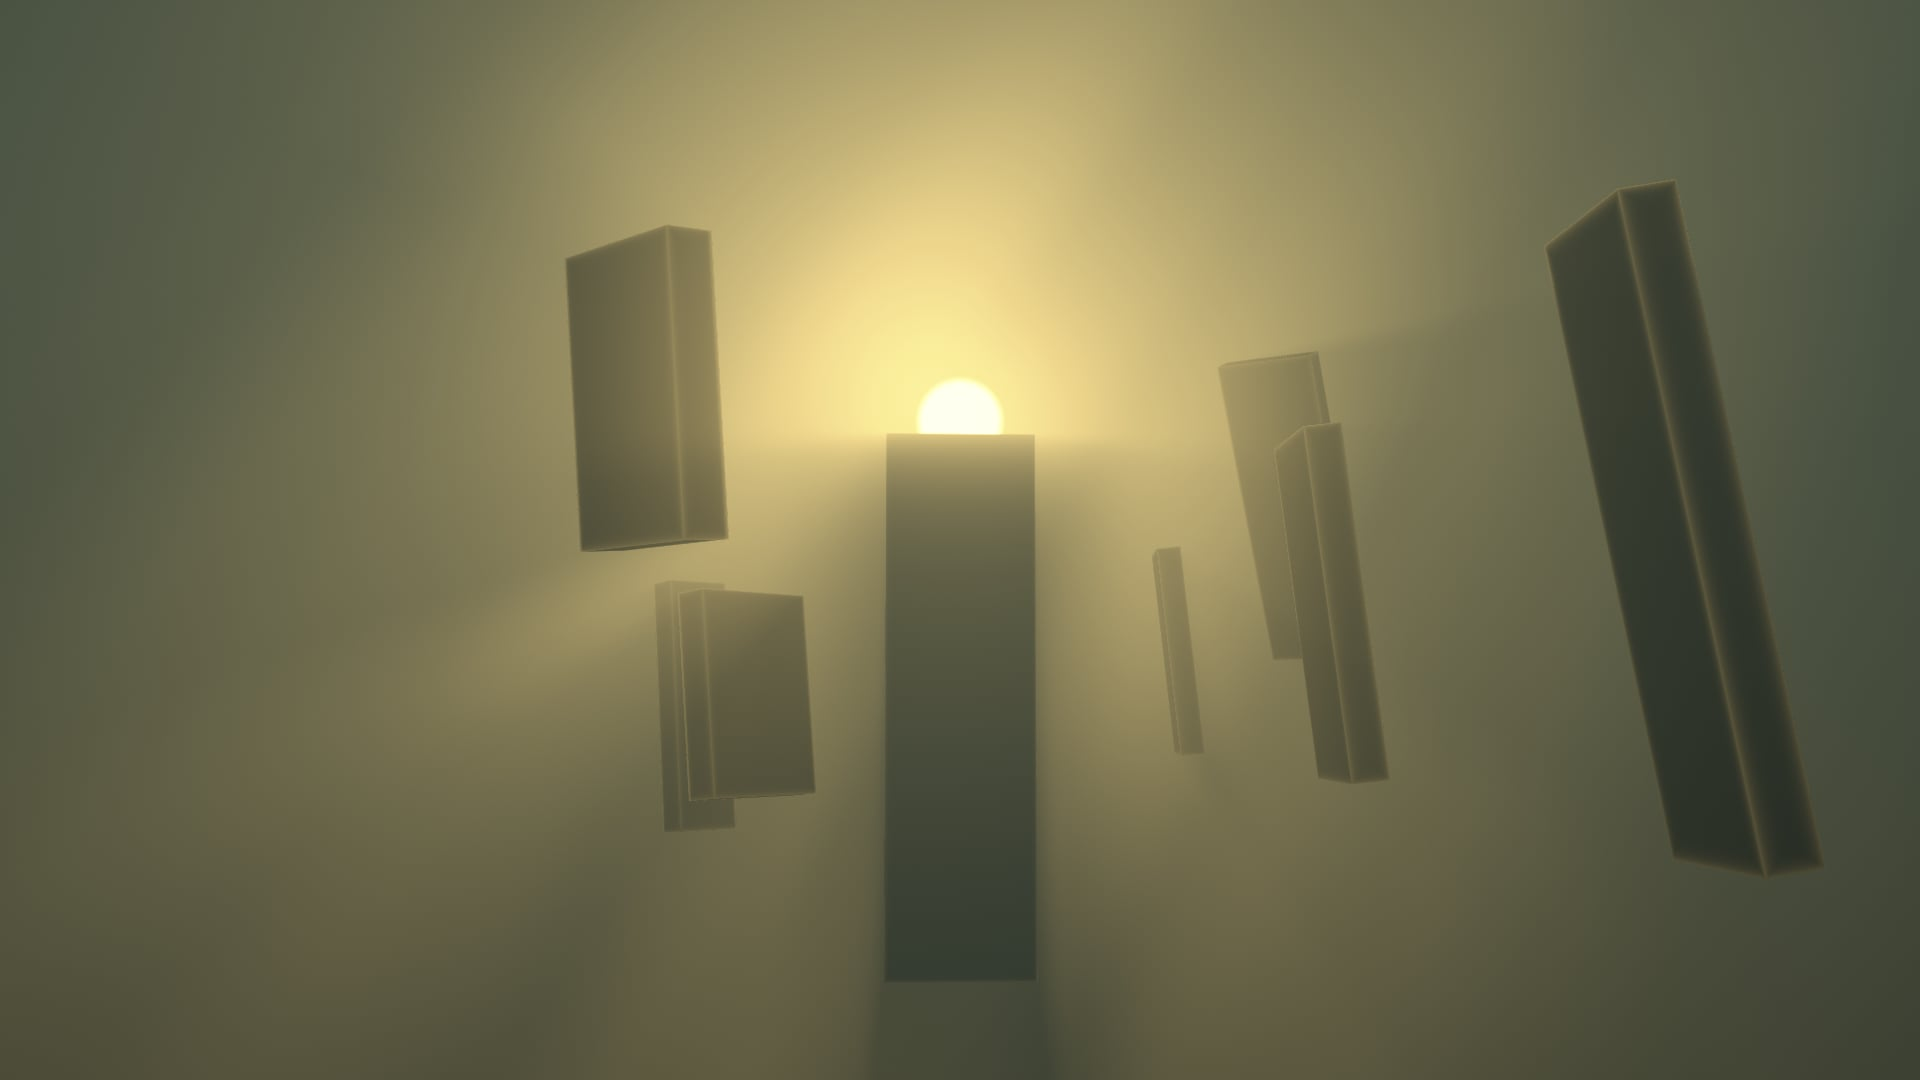
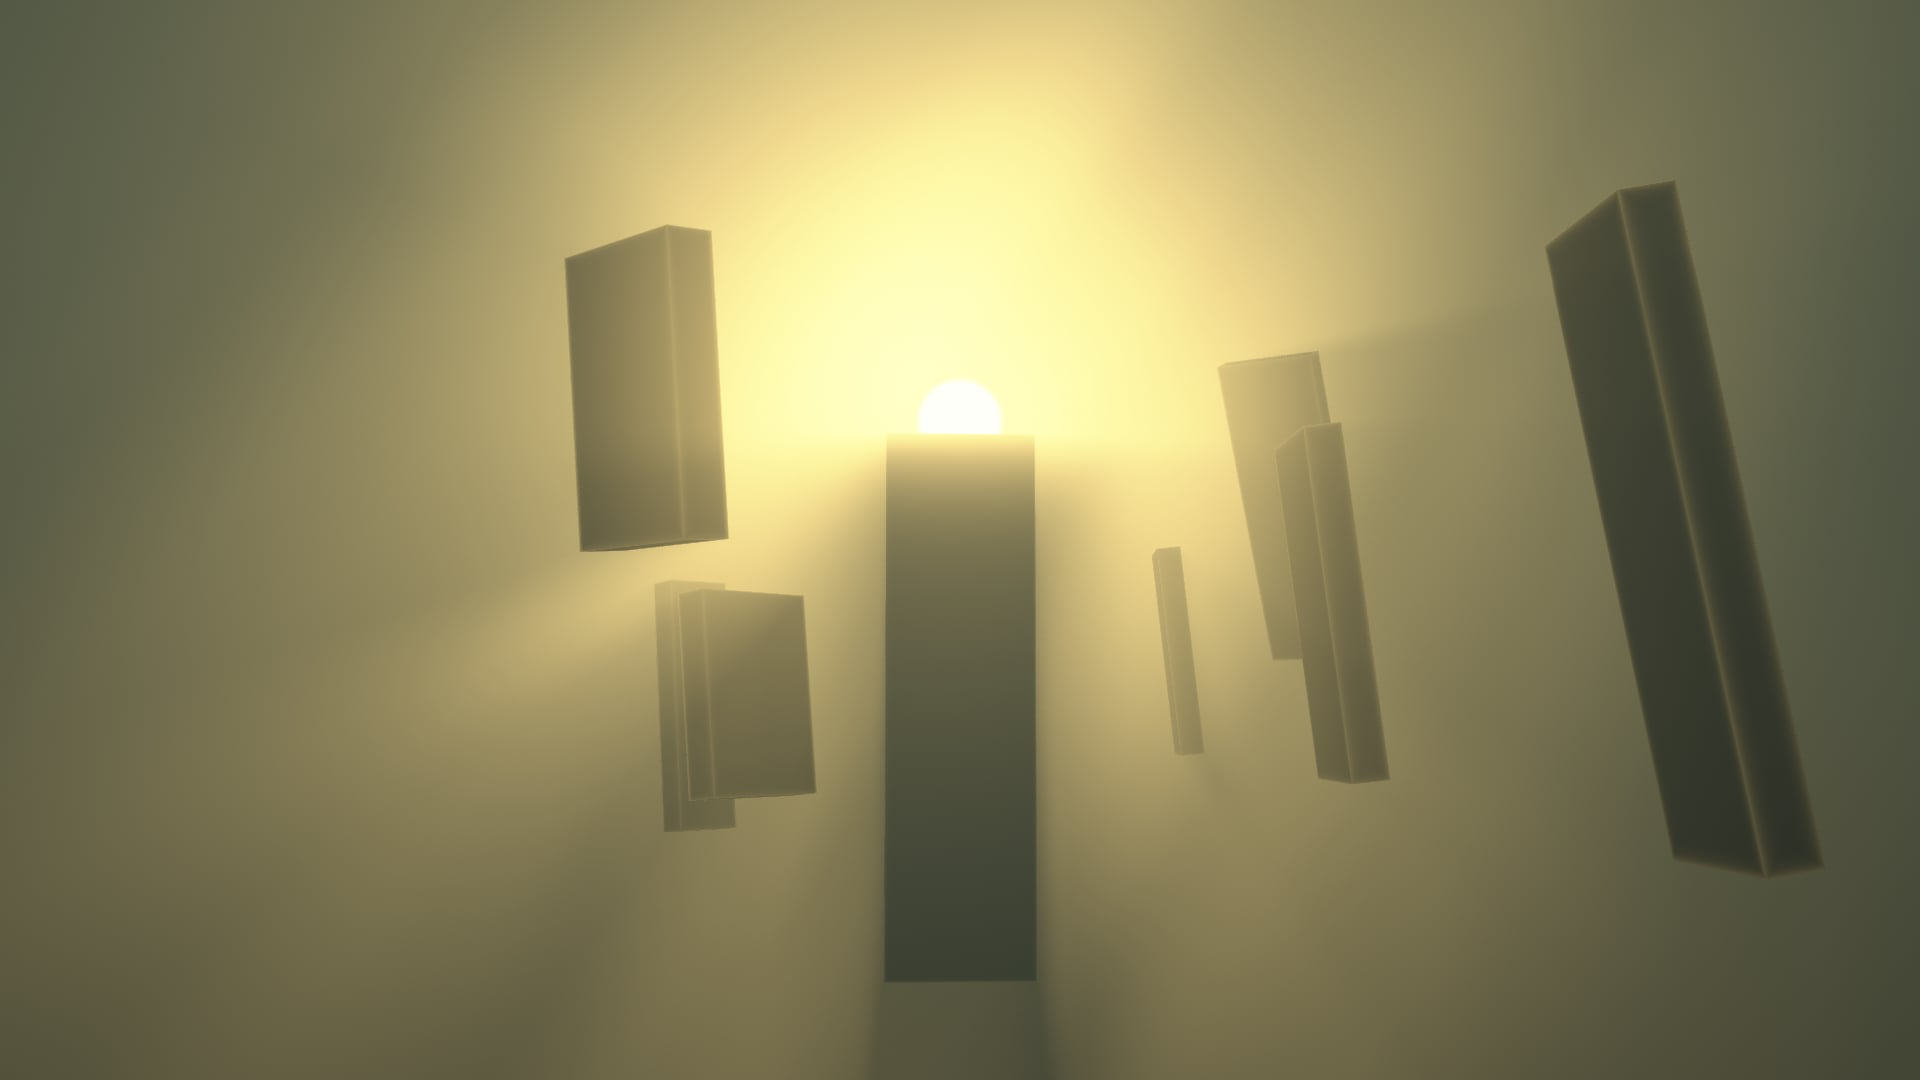
fix(live): Monolith shafts read at default rays, a dark Void, well-ordered smoothsteps

diff --git a/src/live/scenes/monolith.ts b/src/live/scenes/monolith.ts
@@ -25,7 +25,7 @@ const presets: Preset<P>[] = [
   { id: "basalt", title: "Basalt", params: {} },
   { id: "desert", title: "Desert", params: { bg: "#7d5a40", slab: "#80583a", light: "#ffd9a0", haze: 1.2, rays: 1.1, seed: 11 } },
   { id: "temple", title: "Temple", params: { bg: "#27433e", slab: "#3f3b33", light: "#ffdf8c", haze: 1.1, rays: 1.2, seed: 17 } },
-  { id: "void", title: "Void", params: { bg: "#07070d", slab: "#101016", light: "#a7b8ff", haze: 0.7, rays: 1.6, seed: 29 } },
+  { id: "void", title: "Void", params: { bg: "#030306", slab: "#0c0c12", light: "#8a9cff", haze: 0.5, rays: 0.2, seed: 29 } },
 ];
 
 /*
@@ -111,7 +111,7 @@ float occlusion(int i, vec3 q) {
   if (tF <= 0.0) return 0.0;
   float tm = max(0.5 * (tN + tF), 0.0);
   float pen = 0.03 + 0.025 * tm;
-  return smoothstep(pen, -pen, sdBox(q + gLd[i] * tm, gHalf[i]));
+  return 1.0 - smoothstep(-pen, pen, sdBox(q + gLd[i] * tm, gHalf[i]));
 }
 
 float lightVis(vec3 p) {
@@ -192,7 +192,7 @@ vec3 scene(vec2 uv) {
     float tm = max(0.5 * (tt.x + tt.y), 0.0);
     float sd = sdBox(o + d * tm, gHalf[i]);
     float w = 0.7 * max(tm, 0.5) * pixAngle;
-    if (sd < w && tt.x < tFront) { tFront = tt.x; iFront = i; cov = smoothstep(w, -w, sd); }
+    if (sd < w && tt.x < tFront) { tFront = tt.x; iFront = i; cov = 1.0 - smoothstep(-w, w, sd); }
   }
   float tBack = 1e9;
   int iBack = -1;
@@ -234,8 +234,8 @@ vec3 scene(vec2 uv) {
   accF = mix(accF, quadAverage(accF, qd), steady);
   float c = dot(rd, gL);
   float g = 0.8;
-  float phase = 0.025 + 0.012 * (1.0 - g * g) / pow(1.0 + g * g - 2.0 * g * c, 1.5);
-  vec3 shaft = toLinear(u_light) * u_rays * phase * 2.6;
+  float phase = 0.01 + 0.016 * (1.0 - g * g) / pow(1.0 + g * g - 2.0 * g * c, 1.5);
+  vec3 shaft = toLinear(u_light) * u_rays * phase * 4.0;
 
   vec3 col = mix(back + shaft * accB, front + shaft * accF, cov);
   col *= mix(1.0, 0.78, smoothstep(0.4, 1.15, length(uv * vec2(0.8, 1.0))));
